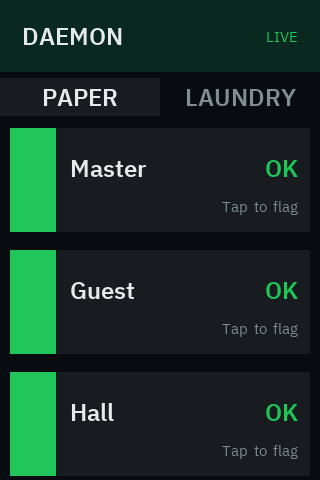
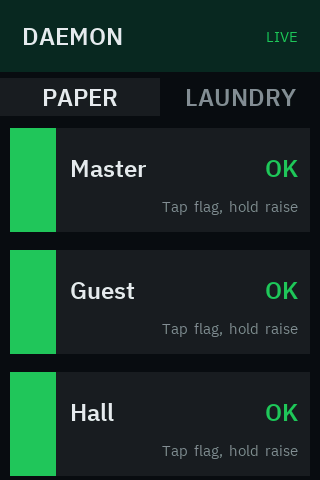
Add long press to raise urgency, and remove debug scaffolding
Holding a room for 600ms raises it one level, low to urgent to out, stopping at
the top. A hold never clears a room: escalating and cancelling should not share a
gesture. The handler now waits for release before sending anything, so it knows
which gesture was made rather than firing on contact, and the card shows
"Raising..." at the threshold so the gesture is confirmed before you let go.

This came out of a long session chasing touches that appeared not to work. They
worked the whole time. A tap toggles, so tapping a room twice flags and
immediately clears it, which from across the room is indistinguishable from a
dead panel. Three theories were investigated and all three were wrong: the
screenshot feature disturbing the shared SPI bus, the touch controller failing,
and the coordinate mapping drifting. A cumulative touch counter and a zone trail
settled it, and both are removed again now they have served their purpose.

The SPI restore after a screenshot is kept. It was written for a cause that
turned out to be imaginary, but reading the framebuffer does reconfigure a bus
the touch controller shares, and handing it back is correct regardless.

Remaining log lines are operational rather than diagnostic: Wi-Fi, API results,
clock, OTA, screenshots, and one line per touch. That last one stays because it
is what makes any future calibration question answerable.

CLAUDE.md records the gesture map and the toggle trap, so the next person to see
[…]

diff --git a/firmware/src/main.cpp b/firmware/src/main.cpp
@@ -149,6 +149,14 @@ uint16_t colorFor(const String& state) {
   if (state == "low") return COL_LOW;
   return COL_OK;
 }
+constexpr unsigned long LONG_PRESS_MS = 600;
+// Hold raises urgency one step and stops at the top. A hold never clears a room:
+// escalating and cancelling should not share a gesture.
+const char* nextLevel(const String& state) {
+  if (state == "ok") return "low";
+  if (state == "low") return "urgent";
+  return "out";
+}
 const char* labelFor(const String& state) {
   if (state == "out") return "OUT";
   if (state == "urgent") return "URGENT";
@@ -193,7 +201,7 @@ void drawCard(size_t index) {
     tft.drawString("raised by time", TEXT_X, y + 68);
   } else {
     tft.setTextDatum(TR_DATUM);
-    tft.drawString(room.state == "ok" ? "Tap to flag" : "Tap to confirm", EDGE_R, y + 68);
+    tft.drawString(room.state == "ok" ? "Tap flag, hold raise" : "Tap clear, hold raise", EDGE_R, y + 68);
     tft.setTextDatum(TL_DATUM);
   }
 }
@@ -336,6 +344,7 @@ bool requestApi(const String& path, const char* method) {
   HTTPClient http; if (!http.begin(String(API_BASE_URL) + path)) { online = false; return false; }
   http.setTimeout(4500); if (strlen(API_TOKEN) > 0) http.addHeader("X-API-Token", API_TOKEN);
   const int code = strcmp(method, "POST") == 0 ? http.POST("") : http.GET(); http.end();
+  logf("%s %s -> %d\n", method, path.c_str(), code);
   online = code >= 200 && code < 300; return online;
 }
 bool fetchStatus() {
@@ -405,12 +414,27 @@ void handleTouch() {
   for (size_t i = 0; i < bathroomCount; ++i) {
     const int top = CARD_Y + static_cast<int>(i) * (CARD_H + CARD_GAP);
     if (x >= 10 && x <= 310 && y >= top && y <= top + CARD_H) {
-      const char* action = bathrooms[i].state == "ok" ? "flag" : "confirm";
-      drawCardNote(i, "Saving...");
-      if (!requestApi(String("/api/bathrooms/") + bathrooms[i].id + "/" + action, "POST")) { drawCardNote(i, "Offline, try again"); delay(1200); }
+      // Wait out the press first, so the gesture is known before anything is sent.
+      const unsigned long pressStart = millis();
+      bool longPress = false;
+      while (touch.touched()) {
+        if (!longPress && millis() - pressStart >= LONG_PRESS_MS) {
+          longPress = true;
+          drawCardNote(i, "Raising...");
+        }
+        delay(10);
+      }
+      String path;
+      if (longPress) {
+        path = String("/api/bathrooms/") + bathrooms[i].id + "/flag/" + nextLevel(bathrooms[i].state);
+      } else {
+        const char* action = bathrooms[i].state == "ok" ? "flag" : "confirm";
+        path = String("/api/bathrooms/") + bathrooms[i].id + "/" + action;
+        drawCardNote(i, "Saving...");
+      }
+      if (!requestApi(path, "POST")) { drawCardNote(i, "Offline, try again"); delay(1200); }
       fetchStatus();
       paintedState[i] = ""; renderUpdates();
-      while (touch.touched()) delay(10);
       return;
     }
   }
@@ -463,7 +487,12 @@ void handleScreenshot() {
   }
   client.flush();
   client.stop();
-  logf("screenshot: sent %d bytes\n", SCREEN_W * SCREEN_H * 2);
+  // Reading the framebuffer reconfigures the SPI bus the touch controller shares
+  // with the display, and leaves it unusable for touch. Hand the bus back.
+  SPI.begin(TOUCH_SCK_PIN, TOUCH_MISO_PIN, TOUCH_MOSI_PIN, TOUCH_CS_PIN);
+  touch.begin();
+  touch.setRotation(0);
+  logf("screenshot: sent %d bytes, touch bus restored\n", SCREEN_W * SCREEN_H * 2);
 }
 void loop() {
   static bool otaStarted = false;

diff --git a/CLAUDE.md b/CLAUDE.md
@@ -92,6 +92,27 @@ check the result with `tools/preview_vlw.py NAME.vlw "sample text"`, which parse
 file the way TFT_eSPI does. Verify a font with the previewer before flashing; a bad
 .vlw shows up as garbled glyphs that cost a flash cycle to diagnose.
 
+## Touch gestures
+
+| | Clear room | Flagged room |
+| --- | --- | --- |
+| Tap | Flag it low | Clear it |
+| Hold, 600ms | Flag it low | Raise one level |
+
+A hold never clears a room. Escalating and cancelling must not share a gesture.
+Holding steps low to urgent to out and stops there.
+
+The handler waits for release before sending anything, so the gesture is known
+before a request goes out rather than firing on contact.
+
+Worth knowing if touch ever looks broken again: a tap toggles, so tapping a room
+twice flags and immediately clears it, leaving the server exactly where it started.
+That is indistinguishable from a dead panel from across the room, and it cost a long
+debugging session. The counter proved touches were registering the whole time. If
+touch looks dead, check whether the server state is changing before suspecting the
+hardware, the SPI bus, or the coordinate mapping. All three were investigated and all
+three were innocent.
+
 ## Screenshots
 
 The board can hand over its own framebuffer. The ST7796 supports reading display RAM
